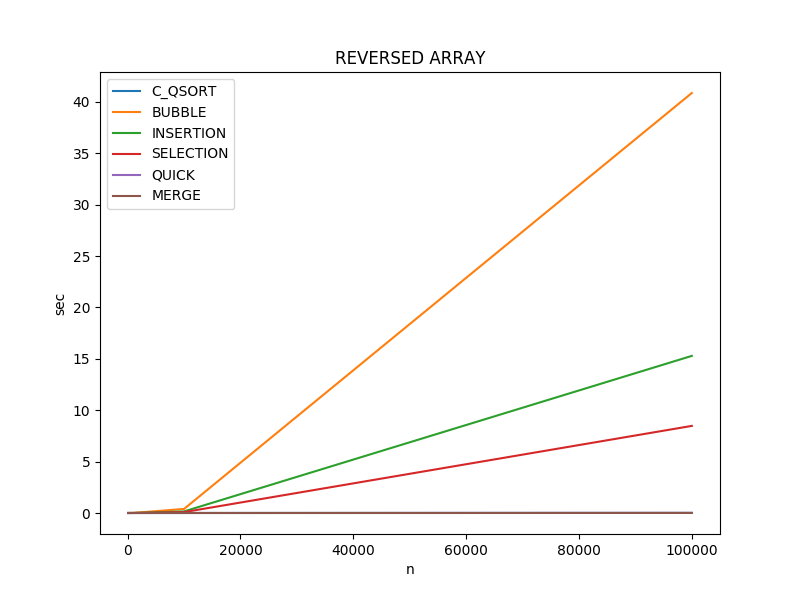
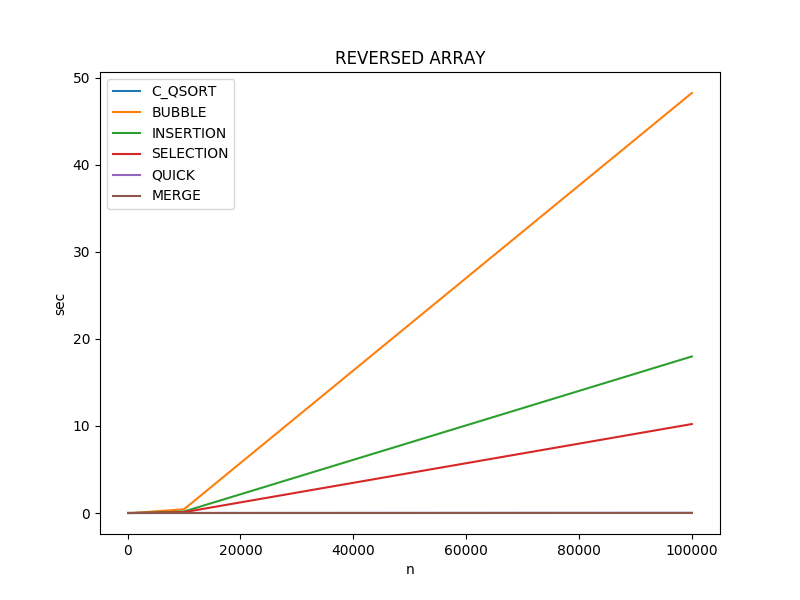
started sorting docs

diff --git a/sorting/README.md b/sorting/README.md
@@ -1,0 +1,86 @@
+# Sorting
+
+Typically, formal algorithm courses begin with sorting b/c they provide an easy
+foundation for which to teach the fundamental concepts of asymptotic time
+complexity. It seems fitting to group all these algorithms into a single section
+in order to easily compare and contrast them. This section covers 5 different
+algorithms:
+
+1) [Bubble Sort](#bubble-sort)
+1) [Insertion Sort](#insertion-sort)
+1) [Selection Sort](#selection-sort)
+1) [Merge Sort](#merge-sort)
+1) [Quick Sort](#quick-sort)
+
+## Bubble Sort
+
+## Insertion Sort
+
+## Selection Sort
+
+## Merge Sort
+
+## Quick Sort
+
+## Run Times
+
+The actual run times for sorting various size integer arrays using the C
+implementation of the algorithms is shown below. All data was collected using a
+docker container running on a Surface Book 2 Laptop (Intel Core i7, 16GB RAM).
+Each time value represents the median of 3 separate executions.
+
+### Arrays w/ Random Integer Values
+
+![alt text](c/RANDOM.png "RANDOM ARRAY VALUES") 
+
+|ALGORITHM| n=100 |n=1000 |n=10000 |n=100000 |
+--|--|--|--|--|
+|C_QSORT |0.000005 sec|0.000060 sec|0.000799 sec|0.009573 sec|
+|BUBBLE |0.000094 sec|0.003827 sec|0.453658 sec|41.579646 sec|
+|INSERTION |0.000023 sec|0.001044 sec|0.080031 sec|8.820152 sec|
+|SELECTION |0.000038 sec|0.000939 sec|0.082957 sec|9.374885 sec|
+|QUICK |0.000010 sec|0.000124 sec|0.001693 sec|0.020595 sec|
+|MERGE |0.000007 sec|0.000118 sec|0.001249 sec|0.015185 sec|
+
+Key Takeaways of pre-sorted arrays: 
+- *Quick*, *Merge*, and *C_QSORT* all perform fairly consistently regardless of
+    the order of the input array.
+- *Bubble*, *Insertion*, and *Selection* 
+- *Merge* performs slightly better than *Quick*, however, it has much higher
+    memory requirements.
+    
+### Arrays w/ Pre-Sorted Values
+
+![alt text](c/SORTED.png "SORTED ARRAY VALUES") 
+
+|ALGORITHM| n=100 |n=1000 |n=10000 |n=100000 |
+--|--|--|--|--|
+|C_QSORT |0.000001 sec|0.000016 sec|0.000178 sec|0.002445 sec|
+|BUBBLE |0.000000 sec|0.000002 sec|0.000016 sec|0.000158 sec|
+|INSERTION |0.000002 sec|0.000013 sec|0.000129 sec|0.001444 sec|
+|SELECTION |0.000009 sec|0.000848 sec|0.082737 sec|9.032020 sec|
+|QUICK |0.000027 sec|0.000093 sec|0.001232 sec|0.015116 sec|
+|MERGE |0.000003 sec|0.000068 sec|0.000369 sec|0.004767 sec|
+
+Key Takeaways of pre-sorted arrays: 
+- *Bubble* clearly performs best
+- *Insertion* outperforms *Selection* by a wide margin (opposite of reverse
+    sorted results)
+
+### Arrays w/ Reverse Sorted Values
+
+![alt text](c/REVERSED.png "REVERSED ARRAY VALUES") 
+
+|ALGORITHM| n=100 |n=1000 |n=10000 |n=100000 |
+--|--|--|--|--|
+|C_QSORT |0.000002 sec|0.000019 sec|0.000223 sec|0.002760 sec|
+|BUBBLE |0.000044 sec|0.004318 sec|0.429120 sec|48.229245 sec|
+|INSERTION |0.000031 sec|0.002819 sec|0.169636 sec|17.977106 sec|
+|SELECTION |0.000013 sec|0.000995 sec|0.094138 sec|10.214144 sec|
+|QUICK |0.000008 sec|0.000107 sec|0.001442 sec|0.017348 sec|
+|MERGE |0.000004 sec|0.000040 sec|0.000475 sec|0.005245 sec|
+
+Key Takeaways of reverse arrays: 
+- *Bubble* is clearly the worst performer
+- *Selection* outperforms *Insertion* by a wide margin (opposite of
+    pre-sorted results)
